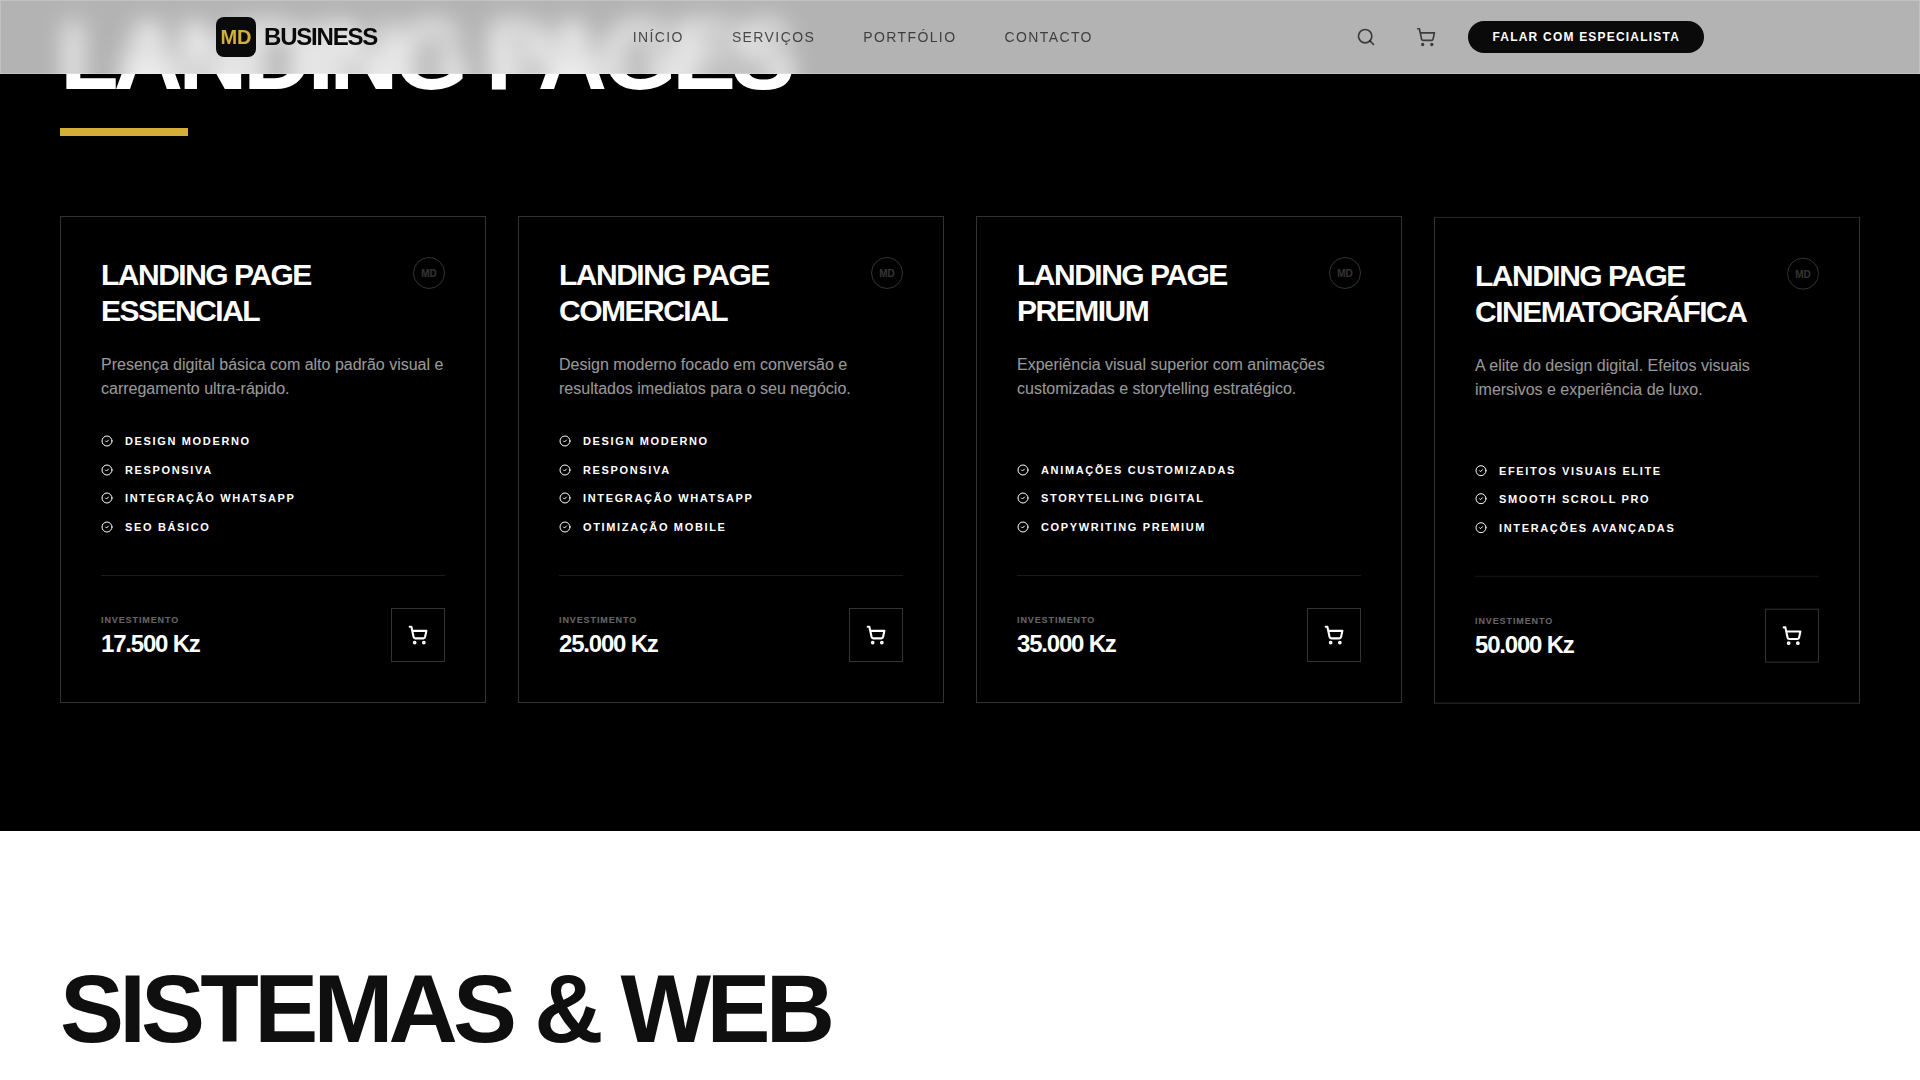
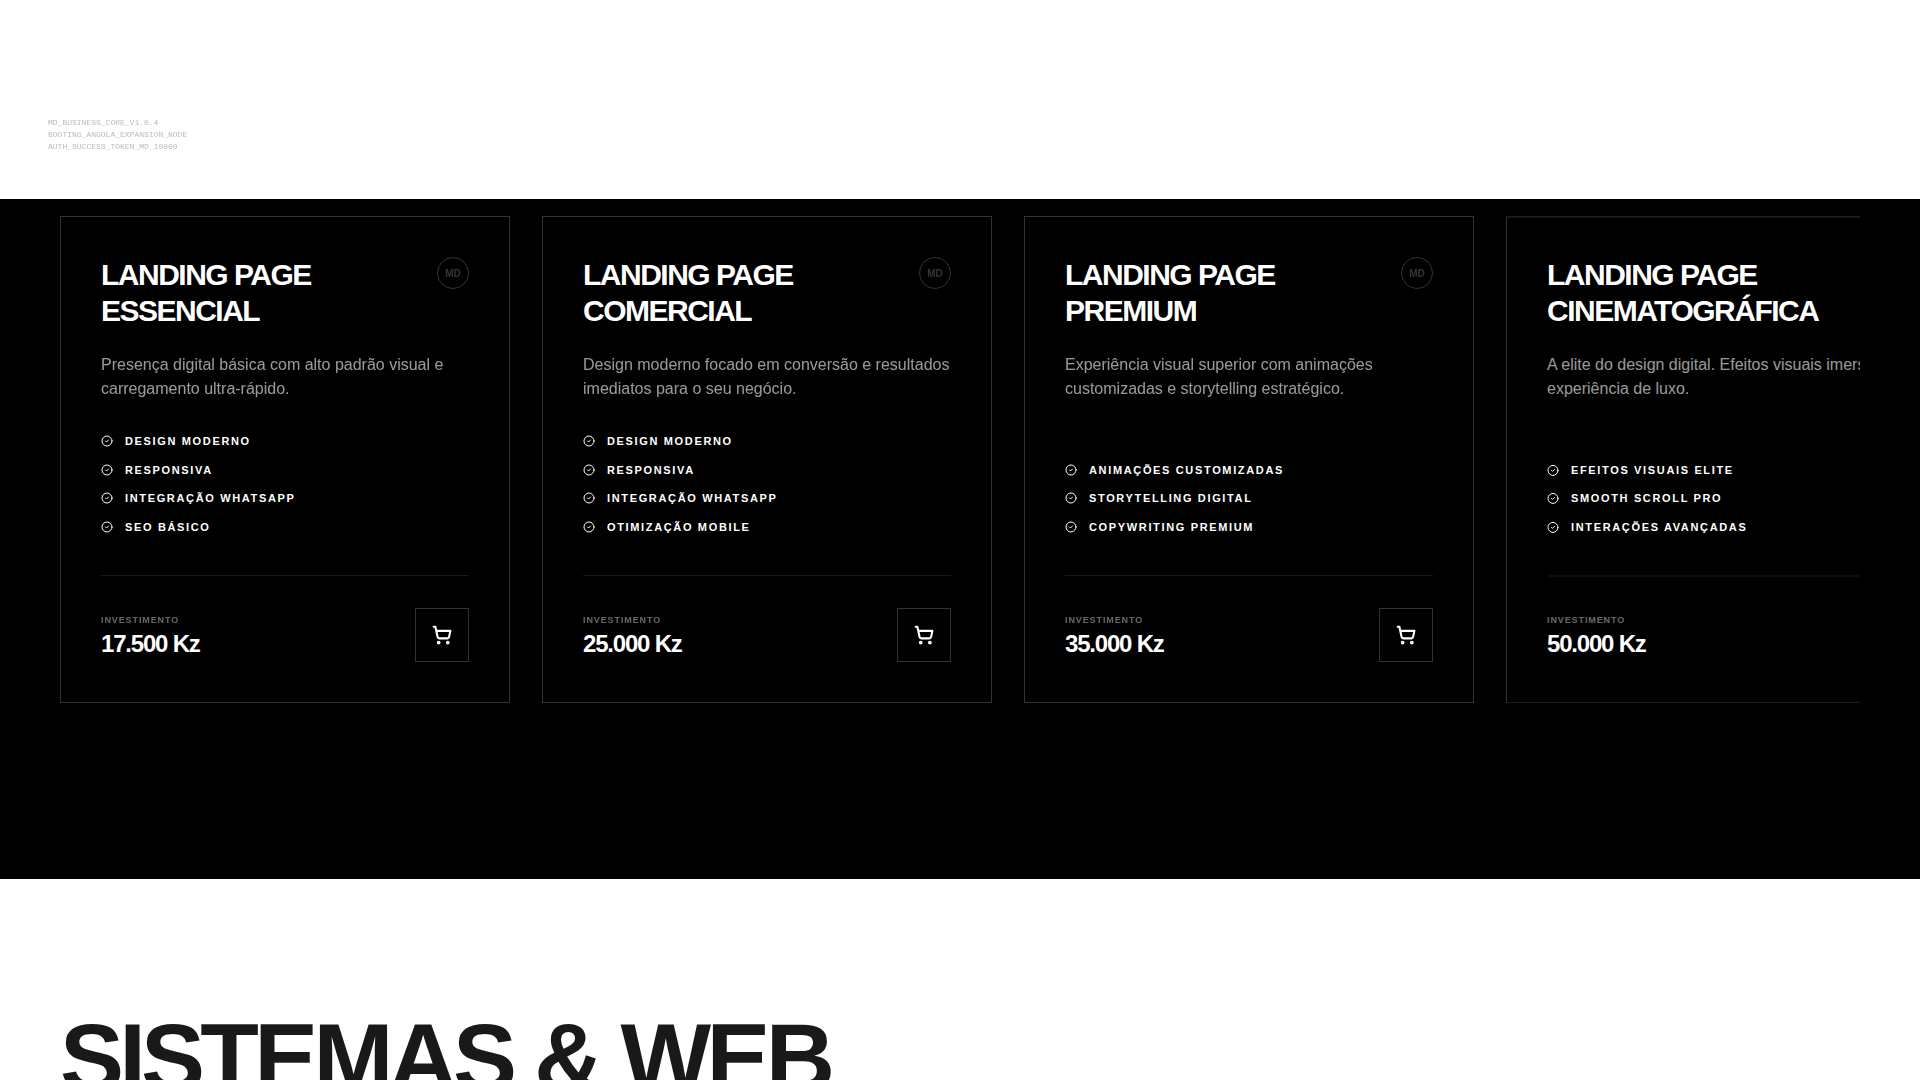
feat: ultra-premium cinematic upgrade with official branding
- Integrated official MD Business logo across Navbar, Footer, and Preloader
- Implemented high-precision 'System Initializing' preloader (0-100% counter)
- Redesigned Services section with horizontal gallery scrolling
- Updated copywriting to reflect nationwide Angola coverage
- Refined social media handles (Instagram, LinkedIn, Facebook)
- Added extensive documentation and cinematic comments for rigor
- Optimized all effects for responsive mobile performance

diff --git a/src/App.tsx b/src/App.tsx
@@ -1,11 +1,14 @@
 import { useEffect } from 'react';
 import Lenis from 'lenis';
 import { motion, useMotionValue, useSpring } from 'framer-motion';
+import { useState } from 'react';
+import { AnimatePresence } from 'framer-motion';
 import Navbar from './components/Navbar';
 import Hero from './components/Hero';
 import Services from './components/Services';
 import Cart from './components/Cart';
 import Checkout from './components/Checkout';
+import Preloader from './components/Preloader';
 import { CartProvider, useCart } from './context/CartContext';
 
 const CustomCursor = () => {
@@ -41,6 +44,7 @@ const CustomCursor = () => {
 
 const AppContent = () => {
   const { cart, total, clearCart, isCheckoutOpen, setIsCheckoutOpen } = useCart();
+  const [loading, setLoading] = useState(true);
 
   useEffect(() => {
     const lenis = new Lenis({
@@ -72,6 +76,10 @@ const AppContent = () => {
 
   return (
     <div className="relative min-h-screen bg-brand-white selection:bg-brand-gold/30">
+      <AnimatePresence>
+        {loading && <Preloader onComplete={() => setLoading(false)} />}
+      </AnimatePresence>
+
       <CustomCursor />
       <Navbar />
       <main id="main-content">
@@ -80,22 +88,24 @@ const AppContent = () => {
       </main>
       <footer className="py-20 border-t border-brand-black/5 bg-brand-gray">
         <div className="container mx-auto px-6 text-center">
-          <div className="flex items-center justify-center space-x-2 mb-8">
-            <div className="w-8 h-8 bg-brand-black flex items-center justify-center rounded-lg">
-              <span className="text-brand-gold font-bold text-sm">MD</span>
-            </div>
-            <span className="text-xl font-bold tracking-tighter text-brand-black">BUSINESS</span>
+          <div className="flex flex-col items-center mb-12">
+            <img src="/logo.png" alt="MD Business" className="w-32 h-auto grayscale mb-6" />
+            <p className="text-brand-black/40 text-xs font-bold uppercase tracking-[0.4em]">
+              Sistemas Digitais de Alto Impacto
+            </p>
           </div>
-          <p className="text-brand-black/40 text-sm font-medium uppercase tracking-[0.2em] mb-12">
-            © 2025 MD Business. Todos os direitos reservados. <br />
-            Luanda, Angola.
+
+          <div className="flex flex-wrap justify-center gap-x-12 gap-y-6 mb-16">
+            <a href="https://instagram.com/md_business.ao" target="_blank" rel="noopener noreferrer" className="text-xs font-bold uppercase tracking-widest text-brand-black hover:text-brand-gold transition-colors">Instagram</a>
+            <a href="https://linkedin.com/company/md-business-ao" target="_blank" rel="noopener noreferrer" className="text-xs font-bold uppercase tracking-widest text-brand-black hover:text-brand-gold transition-colors">LinkedIn</a>
+            <a href="https://facebook.com/mdbusinessao" target="_blank" rel="noopener noreferrer" className="text-xs font-bold uppercase tracking-widest text-brand-black hover:text-brand-gold transition-colors">Facebook</a>
+            <a href="https://wa.me/244934859497" target="_blank" rel="noopener noreferrer" className="text-xs font-bold uppercase tracking-widest text-brand-black hover:text-brand-gold transition-colors">WhatsApp</a>
+          </div>
+
+          <p className="text-brand-black/20 text-[10px] font-bold uppercase tracking-[0.2em]">
+            © 2025 MD Business. Angola, África. <br />
+            Designed for the 1%.
           </p>
-          <div className="flex justify-center space-x-8">
-            <a href="https://instagram.com" target="_blank" rel="noopener noreferrer" className="text-xs font-bold uppercase tracking-widest text-brand-black/60 hover:text-brand-gold transition-colors">Instagram</a>
-            <a href="https://linkedin.com" target="_blank" rel="noopener noreferrer" className="text-xs font-bold uppercase tracking-widest text-brand-black/60 hover:text-brand-gold transition-colors">LinkedIn</a>
-            <a href="https://behance.net" target="_blank" rel="noopener noreferrer" className="text-xs font-bold uppercase tracking-widest text-brand-black/60 hover:text-brand-gold transition-colors">Behance</a>
-            <a href="https://wa.me/244934859497" target="_blank" rel="noopener noreferrer" className="text-xs font-bold uppercase tracking-widest text-brand-black/60 hover:text-brand-gold transition-colors">WhatsApp</a>
-          </div>
         </div>
       </footer>
 

diff --git a/src/components/Preloader.tsx b/src/components/Preloader.tsx
@@ -1,0 +1,89 @@
+/**
+ * @file Preloader.tsx
+ * @description Cinematic "System Initializing" sequence for MD Business.
+ * Implements a high-precision 0-100% counter with terminal-style metadata.
+ *
+ * DESIGN PHILOSOPHY:
+ * - Psychological Enchantment: The delay creates a perception of high computational value.
+ * - Minimalist Tech: Monospaced fonts combined with high-fashion imagery.
+ * - Brand Authority: Boot sequences for "Angola Expansion Nodes" reinforce market dominance.
+ */
+
+import React, { useState, useEffect } from 'react';
+import { motion } from 'framer-motion';
+
+/**
+ * Preloader Component
+ * @param onComplete Callback triggered after the 100% threshold + aesthetic delay.
+ */
+const Preloader: React.FC<{ onComplete: () => void }> = ({ onComplete }) => {
+  const [progress, setProgress] = useState(0);
+
+  useEffect(() => {
+    const duration = 2500; // 2.5 seconds
+    const interval = 20;
+    const steps = duration / interval;
+    const increment = 100 / steps;
+
+    const timer = setInterval(() => {
+      setProgress((prev) => {
+        const next = prev + increment;
+        if (next >= 100) {
+          clearInterval(timer);
+          setTimeout(onComplete, 500);
+          return 100;
+        }
+        return next;
+      });
+    }, interval);
+
+    return () => clearInterval(timer);
+  }, [onComplete]);
+
+  return (
+    <motion.div
+      exit={{ y: '-100%' }}
+      transition={{ duration: 0.8, ease: [0.16, 1, 0.3, 1] }}
+      className="fixed inset-0 z-[1000] bg-white flex flex-col items-center justify-center"
+    >
+      <div className="relative flex flex-col items-center">
+        <motion.div
+          initial={{ opacity: 0, scale: 0.8 }}
+          animate={{ opacity: 1, scale: 1 }}
+          transition={{ duration: 1 }}
+          className="mb-12"
+        >
+          <img src="/logo.png" alt="MD Business" className="w-32 h-auto grayscale contrast-125" />
+        </motion.div>
+
+        <div className="w-64 h-[1px] bg-black/5 relative overflow-hidden">
+          <motion.div
+            className="absolute top-0 left-0 h-full bg-black"
+            initial={{ width: 0 }}
+            animate={{ width: `${progress}%` }}
+          />
+        </div>
+
+        <div className="mt-6 flex justify-between w-64 items-end">
+          <div className="flex flex-col">
+            <span className="text-[10px] font-black uppercase tracking-[0.3em] opacity-40">System Status</span>
+            <span className="text-[10px] font-black uppercase tracking-[0.3em]">Initializing Core...</span>
+          </div>
+          <span className="text-4xl font-black tracking-tighter italic">
+            {Math.round(progress)}%
+          </span>
+        </div>
+      </div>
+
+      <div className="absolute bottom-12 left-12">
+        <div className="flex flex-col gap-1">
+          <span className="text-[8px] font-mono uppercase opacity-30 leading-none">MD_BUSINESS_CORE_V1.0.4</span>
+          <span className="text-[8px] font-mono uppercase opacity-30 leading-none">BOOTING_ANGOLA_EXPANSION_NODE</span>
+          <span className="text-[8px] font-mono uppercase opacity-30 leading-none">AUTH_SUCCESS_TOKEN_MD_10000</span>
+        </div>
+      </div>
+    </motion.div>
+  );
+};
+
+export default Preloader;

diff --git a/src/components/Services.tsx b/src/components/Services.tsx
@@ -83,7 +83,7 @@ const Services: React.FC = () => {
             <div className="h-2 w-32 bg-[#D4AF37]"></div>
           </motion.div>
 
-          <div className="grid grid-cols-1 md:grid-cols-2 lg:grid-cols-4 gap-8">
+          <div className="flex overflow-x-auto pb-12 gap-8 no-scrollbar cursor-grab active:cursor-grabbing hide-scrollbar">
             {landingPages.map((s, i) => (
               <motion.div
                 key={s.id}
@@ -91,6 +91,7 @@ const Services: React.FC = () => {
                 whileInView={{ opacity: 1, y: 0 }}
                 viewport={{ once: true }}
                 transition={{ duration: 0.6, delay: i * 0.1 }}
+                className="min-w-[320px] md:min-w-[450px]"
               >
                 <ServiceCard {...s} onAddToCart={() => addToCart(s)} />
               </motion.div>
@@ -112,7 +113,7 @@ const Services: React.FC = () => {
             <div className="h-2 w-32 bg-black"></div>
           </motion.div>
 
-          <div className="grid grid-cols-1 md:grid-cols-2 lg:grid-cols-4 gap-8">
+          <div className="flex overflow-x-auto pb-12 gap-8 no-scrollbar cursor-grab active:cursor-grabbing hide-scrollbar">
             {websites.map((s, i) => (
               <motion.div
                 key={s.id}
@@ -120,6 +121,7 @@ const Services: React.FC = () => {
                 whileInView={{ opacity: 1, y: 0 }}
                 viewport={{ once: true }}
                 transition={{ duration: 0.6, delay: i * 0.1 }}
+                className="min-w-[320px] md:min-w-[450px]"
               >
                 <ServiceCard {...s} onAddToCart={() => addToCart(s)} dark={false} />
               </motion.div>

diff --git a/src/components/Navbar.tsx b/src/components/Navbar.tsx
@@ -34,12 +34,9 @@ const Navbar: React.FC = () => {
           initial={{ opacity: 0, x: -20 }}
           animate={{ opacity: 1, x: 0 }}
           transition={{ duration: 0.6 }}
-          className="flex items-center space-x-2"
+          className="flex items-center"
         >
-          <div className="w-10 h-10 bg-brand-black flex items-center justify-center rounded-lg">
-            <span className="text-brand-gold font-bold text-xl">MD</span>
-          </div>
-          <span className="text-2xl font-bold tracking-tighter text-brand-black">BUSINESS</span>
+          <img src="/logo.png" alt="MD Business" className="h-8 md:h-12 w-auto grayscale contrast-125" />
         </motion.div>
 
         {/* Desktop Navigation */}
@@ -113,11 +110,8 @@ const Navbar: React.FC = () => {
             className="fixed inset-0 z-50 bg-white flex flex-col md:hidden"
           >
             <div className="flex justify-between items-center p-6 border-b">
-              <div className="flex items-center space-x-2">
-                <div className="w-8 h-8 bg-brand-black flex items-center justify-center rounded-lg">
-                  <span className="text-brand-gold font-bold text-sm">MD</span>
-                </div>
-                <span className="text-xl font-bold tracking-tighter text-brand-black">BUSINESS</span>
+              <div className="flex items-center">
+                 <img src="/logo.png" alt="MD Business" className="h-8 w-auto grayscale" />
               </div>
               <button onClick={() => setIsOpen(false)} className="p-2">
                 <X size={32} />

diff --git a/src/components/Hero.tsx b/src/components/Hero.tsx
@@ -119,7 +119,7 @@ const Hero: React.FC = () => {
           className="mt-12 flex flex-col md:flex-row md:items-end justify-between gap-12"
         >
           <p className="text-lg md:text-3xl max-w-2xl font-light leading-tight text-black/60 italic">
-            Transformamos a sua visão em realidade com engenharia digital de elite. MD Business: O seu parceiro estratégico no Patriota.
+            Engenharia digital de elite para marcas que dominam o mercado. O seu parceiro estratégico em toda Angola.
           </p>
 
           <button

diff --git a/src/index.css b/src/index.css
@@ -2,6 +2,16 @@
 @tailwind components;
 @tailwind utilities;
 
+@layer utilities {
+  .hide-scrollbar::-webkit-scrollbar {
+    display: none;
+  }
+  .hide-scrollbar {
+    -ms-overflow-style: none;
+    scrollbar-width: none;
+  }
+}
+
 @layer base {
   :root {
     background-color: #FFFFFF;
